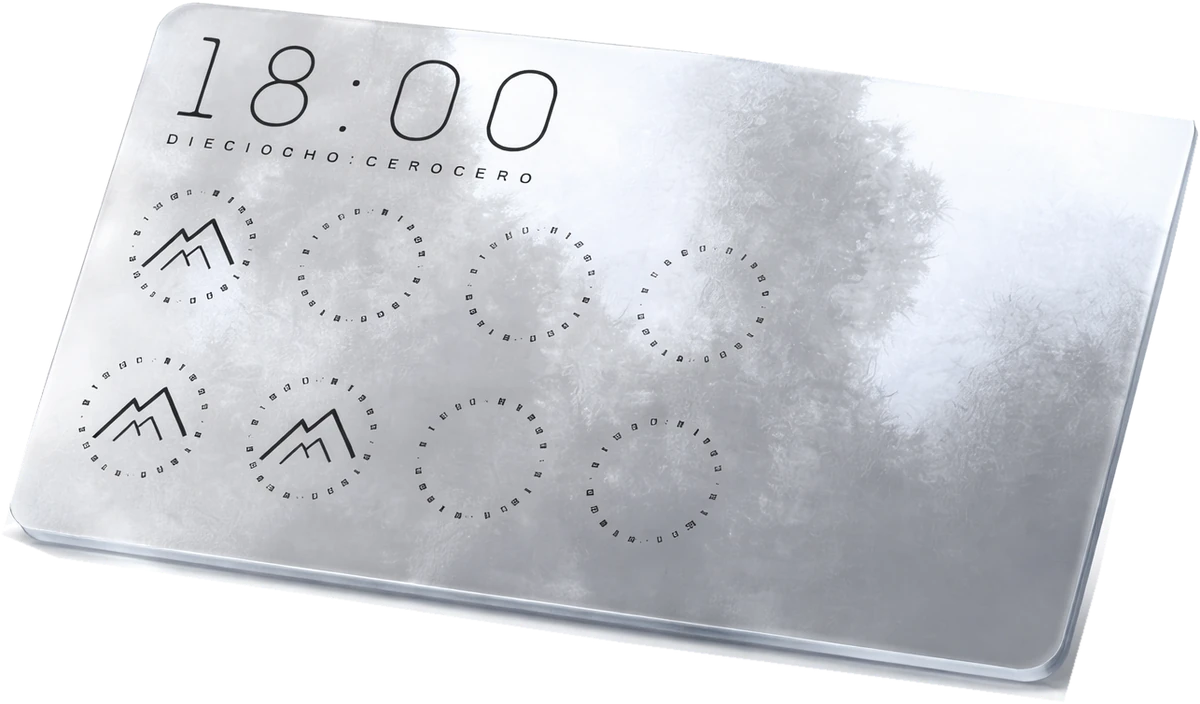
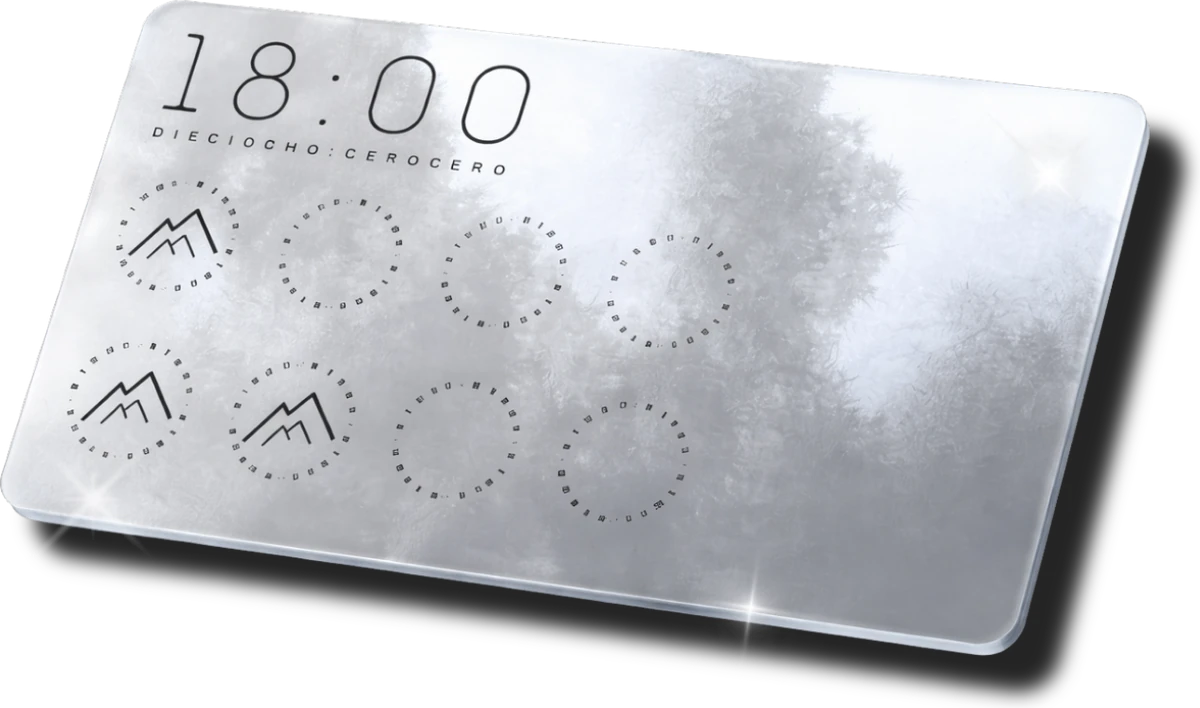
La tarjeta del Club flota y tiene brillo metalizado
El cliente aporto la tarjeta ya con alfa, asi que el recorte manual del render
anterior sobra. Se retira su script (tools/recortar-tarjeta.py) en vez de
dejarlo ahi: mantener codigo que ya nadie ejecuta es peor que no tenerlo, y el
episodio queda en el historial. Lo sustituye tools/optimizar-tarjeta.py, que
solo recorta a la caja de alfa, mismo criterio que los mockups de producto.
1358x1653 -> 1266x747 de contenido -> 1200x708, 85 KB.

Flotacion y brillo, pedidos por el cliente. Es una excepcion al lenguaje quieto
del Club y queda anotada como tal en AGENTS.md: la excepcion es el objeto, no la
seccion, y alrededor todo sigue entrando con su fade largo.

- Ciclo de 9 s, mas lento que cualquier pieza del hero (6,5-8,5 s), y con menos
  recorrido: 16,7 px medidos. Un objeto de este peso visual al ritmo de una
  bolsa de cafe se lee nervioso.
- Doble sombra: una corta y densa que lo despega del negro, otra larga y difusa
  que hace de contacto. Con una sola, o flota sin peso o se pega.
- El barrido de luz va enmascarado con la propia tarjeta (mask-image con el
  mismo WebP). Sin mascara la banda seria un rectangulo y se saldria por las
  esquinas redondeadas y el canto biselado.
- La banda ocupa el 12% del degradado, ~34% del ancho. El primer intento la
  puso al 30% (84% del ancho) y no se leia como destello: subia el brillo de
  toda la superficie a la vez y lavaba la impresion.

Con reduce, la flotacion baja a 8 px en 14 s y el brillo a 0,45 de opacidad en
[…]

diff --git a/src/app/globals.css b/src/app/globals.css
@@ -610,6 +610,88 @@ body {
   will-change: transform;
 }
 
+/* ---------- Tarjeta del Club 1800 ----------
+   Recibe el mismo trato que los mockups del hero: flota y tiene sombra propia.
+   Es una excepción pedida por el cliente al criterio de AGENTS.md, que reserva
+   al Club un lenguaje sin movimiento — la excepción es la tarjeta, no la
+   sección: el texto y el botón siguen entrando con su fade largo y quieto.
+
+   El ciclo es de 9 s, más lento que cualquier mockup del hero (6,5–8,5 s), y
+   el recorrido menor. Un objeto de este peso visual moviéndose al ritmo de una
+   bolsa de café se leería nervioso. */
+.tarjeta-club {
+  --amp: -16px;
+  --dur: 9s;
+  position: relative;
+  animation: tarjeta-flotar var(--dur) ease-in-out infinite;
+  will-change: transform;
+}
+.tarjeta-club img {
+  display: block;
+  width: 100%;
+  height: auto;
+  /* Doble sombra: una corta y densa que la despega del negro, y otra larga y
+     difusa que hace de contacto. Con una sola, o flota sin peso o se pega. */
+  filter:
+    drop-shadow(0 14px 18px rgba(0, 0, 0, 0.85))
+    drop-shadow(0 34px 55px rgba(0, 0, 0, 0.6));
+}
+
+/* Barrido de luz metalizada. Va enmascarado con la propia tarjeta: sin la
+   máscara, la banda de luz sería un rectángulo y se saldría por las esquinas
+   redondeadas y por el canto biselado. `screen` sobre el plateado levanta el
+   brillo sin lavar el gris de la impresión. */
+.tarjeta-club__brillo {
+  position: absolute;
+  inset: 0;
+  pointer-events: none;
+  mix-blend-mode: screen;
+  opacity: var(--brillo-op, 1);
+  /* La banda ocupa el 12% del degradado, que a 280% de tamaño son ~34% del
+     ancho de la tarjeta. Con la banda ancha (30% / 84% del ancho) no se leía
+     como destello: subía el brillo de toda la superficie a la vez y lavaba la
+     impresión. Un reflejo especular es estrecho y va y viene. Cinco paradas y
+     no tres, para que el modo `screen` no delate el quiebre de pendiente. */
+  background: linear-gradient(
+    104deg,
+    transparent 42%,
+    rgba(255, 255, 255, 0.08) 47%,
+    rgba(255, 255, 255, 0.3) 50%,
+    rgba(255, 255, 255, 0.08) 53%,
+    transparent 58%
+  );
+  background-size: 280% 100%;
+  -webkit-mask-image: url("/images/club/tarjeta-1800.webp");
+  mask-image: url("/images/club/tarjeta-1800.webp");
+  -webkit-mask-size: 100% 100%;
+  mask-size: 100% 100%;
+  -webkit-mask-repeat: no-repeat;
+  mask-repeat: no-repeat;
+  animation: tarjeta-brillo 8s ease-in-out infinite;
+}
+
+@keyframes tarjeta-flotar {
+  0%,
+  100% {
+    translate: 0 0;
+  }
+  50% {
+    translate: 0 calc(var(--amp) * var(--amp-scale, 1));
+  }
+}
+
+/* El destello cruza una vez y descansa: de 0 a 45% barre, y el resto del ciclo
+   se queda fuera de cuadro. Un brillo que va y viene sin parar parece un GIF. */
+@keyframes tarjeta-brillo {
+  0% {
+    background-position: 150% 0;
+  }
+  45%,
+  100% {
+    background-position: -60% 0;
+  }
+}
+
 /* ---------- Reduced-motion: solo lo intrusivo ----------
    Se apaga el parallax con scrub; se conserva todo lo demás con el
    recorrido reducido. Ver el porqué en handoff.md del proyecto original
@@ -628,6 +710,17 @@ body {
   .decor__abeja-aleteo {
     --amp-scale: 0.5;
     animation-duration: 1.8s;
+  }
+  /* La tarjeta conserva su flotación a media amplitud. El barrido de luz sí se
+     alarga mucho y se atenúa: un destello que cruza es lo más parecido a un
+     parpadeo que hay en la página, y ahí `reduce` sí tiene razón. */
+  .tarjeta-club {
+    --amp-scale: 0.5;
+    animation-duration: 14s;
+  }
+  .tarjeta-club__brillo {
+    --brillo-op: 0.45;
+    animation-duration: 20s;
   }
   .js-anim .ciclo::before {
     transform: scaleX(1);

diff --git a/src/components/sections/Club.tsx b/src/components/sections/Club.tsx
@@ -25,20 +25,22 @@ export default function Club() {
             {club.cta}
           </Button>
         </div>
-        {/* La tarjeta va recortada sobre el fondo, no dentro de un recuadro con
-            borde: es un objeto, no una fotografía enmarcada. Sin animación de
-            flotación a propósito — el Club tiene lenguaje propio, fade largo y
-            sin desplazamiento, y no recibe el tratamiento del resto de la
-            página. La sombra la separa del negro sin necesidad de moverla. */}
-        <figure data-reveal-club className="relative">
+        {/* La tarjeta va suelta sobre el fondo, no dentro de un recuadro con
+            borde: es un objeto, no una fotografía enmarcada. Flota y tiene
+            brillo metalizado, como los mockups del hero — excepción pedida por
+            el cliente al lenguaje quieto del Club; ver globals.css.
+            El brillo es un hermano, no un hijo del <img>: un elemento dentro
+            de la imagen no existe, y como hermano puede mezclarse en `screen`
+            usando la propia tarjeta como máscara. */}
+        <figure data-reveal-club className="tarjeta-club">
           <Image
             src={club.image}
             alt={club.imageAlt}
             width={1200}
-            height={704}
+            height={708}
             sizes="(min-width: 980px) 45vw, 92vw"
-            className="h-auto w-full drop-shadow-[0_28px_45px_rgba(0,0,0,0.85)]"
           />
+          <span className="tarjeta-club__brillo" aria-hidden="true" />
         </figure>
       </Wrap>
     </section>

diff --git a/tools/optimizar-tarjeta.py b/tools/optimizar-tarjeta.py
@@ -1,0 +1,47 @@
+"""Recorta a la caja de alfa y optimiza la tarjeta del Club 1800.
+
+    python tools/optimizar-tarjeta.py <origen.png> public/images/club/tarjeta-1800.webp
+
+Mismo criterio que los mockups de producto: se recorta al contenido real para
+que el ancho en CSS sea el ancho visible de la tarjeta. El PNG que entrega el
+cliente trae ~68% de lienzo transparente alrededor; sin recortar, colocarla y
+darle una sombra seria adivinar donde esta de verdad el objeto.
+
+Sustituye al antiguo recorte por inundacion + poligono: aquel hacia falta
+cuando el render venia sobre fondo blanco con el reflejo del suelo pegado al
+canto. El archivo actual ya llega con alfa limpia y no necesita nada de eso.
+"""
+import os
+import sys
+from PIL import Image
+
+ANCHO_SALIDA = 1200
+
+
+def optimizar(src, dst):
+    im = Image.open(src).convert("RGBA")
+    original = im.size
+
+    caja = im.getchannel("A").point(lambda p: 255 if p > 8 else 0).getbbox()
+    im = im.crop(caja)
+    recorte = im.size
+
+    alto = round(ANCHO_SALIDA * recorte[1] / recorte[0])
+    im = im.resize((ANCHO_SALIDA, alto), Image.LANCZOS)
+
+    os.makedirs(os.path.dirname(dst), exist_ok=True)
+    im.save(dst, "WEBP", quality=90, method=6, alpha_quality=100)
+
+    # La mascara del brillo usa este mismo archivo: si el contenido no llenara
+    # la caja, el barrido de luz no cuadraria con la tarjeta.
+    b = Image.open(dst).convert("RGBA").getchannel("A").point(lambda q: 255 if q > 8 else 0).getbbox()
+    llena = b == (0, 0, ANCHO_SALIDA, alto)
+    return original, recorte, (ANCHO_SALIDA, alto), os.path.getsize(dst) / 1024, llena
+
+
+if __name__ == "__main__":
+    if len(sys.argv) != 3:
+        sys.exit(__doc__)
+    orig, rec, sal, kb, llena = optimizar(sys.argv[1], sys.argv[2])
+    print(f"{orig[0]}x{orig[1]}  ->  recorte {rec[0]}x{rec[1]}  ->  {sal[0]}x{sal[1]}  {kb:.0f} KB")
+    print(f"contenido llena la caja: {'si' if llena else 'NO'}")

diff --git a/handoff.md b/handoff.md
@@ -121,49 +121,59 @@ las piezas del hero. No es stock: es el producto real de la marca.
 
 **Las otras dos no lo tenían**, así que se diseñó el hueco en vez de taparlo.
 `MediaFrame` compone un panel con la marca de montaña al 10% de opacidad, que se
-lee como «foto por venir». Respeta la regla de contraste del brandbook — variante
-oscura sobre fondo claro en Origen, clara sobre oscuro en Club — y la prop
-`vacio="club"` mantiene esa sección dentro de su paleta propia, que no se mezcla
-con la principal.
+lee como «foto por venir», con la variante oscura del logo sobre fondo claro que
+exige el brandbook. La del Club dejó de hacer falta poco después, al aportar el
+cliente la tarjeta real (§2.7).
 
-El fallback por `onError` se conserva: en cuanto los archivos reales aparezcan en
+El fallback por `onError` se conserva: en cuanto el archivo real aparezca en
 `public/images/pending/`, la foto tapa el panel sin tocar una línea de código.
 
-Medido en 390/768/1280/1440/1920: **10/10** imágenes de producto cargadas, 2
-paneles de hueco, **0 imágenes rotas visibles** (antes 5) y sin desborde.
+Medido en 390/768/1280/1440/1920: **10/10** imágenes de producto cargadas,
+**0 imágenes rotas visibles** (antes 5) y sin desborde. Queda un solo hueco, el
+de `finca-familia.jpg`.
 
-### 2.7 La tarjeta del Club, recortada de su render
+### 2.7 La tarjeta del Club: flotación y brillo metalizado
 
-El cliente aportó un render de la tarjeta de fidelización y, aparte, un `.obj`
-con su modelo 3D. **El modelo no hizo falta**: se comprobó que llega sin
-texturas (`map=no` en los tres materiales), es decir, una tarjeta en blanco. El
-render, en cambio, ya trae el arte. Los dos quedan en `assets-fuente/` por si
-algún día se quiere otro ángulo — el modelo sí tiene las UV desplegadas de 0 a 1,
-así que aceptaría una textura sin tocar geometría.
+El cliente aportó primero un render sobre fondo blanco y un `.obj` con el modelo
+3D; después, un PNG ya con alfa. **Solo hace falta el último.**
 
-Recortar el render tuvo su trabajo, y por eso hay un script con las medidas
-dentro: `tools/recortar-tarjeta.py`. Dos problemas encadenados:
+**El `.obj` nunca sirvió para esto:** llega sin texturas (`map=no` en los tres
+materiales), o sea una tarjeta en blanco. Se conserva en `assets-fuente/` porque
+tiene las UV desplegadas de 0 a 1 y aceptaría una textura sin tocar geometría,
+por si algún día se quiere otro ángulo o una animación 3D.
 
-- **El interior de la tarjeta es casi blanco**, igual que el fondo. Borrar por
-  color se la lleva entera. Se rellena por inundación desde las esquinas, que
-  solo alcanza el blanco conectado con el exterior.
-- **El reflejo del suelo va soldado al canto inferior.** Comparten borde y
-  ningún umbral los separa; subir la tolerancia empezaba a comerse el filo antes
-  de limpiar el reflejo. Hace falta cortar por geometría, con un polígono.
+**El recorte manual del primer render se retiró.** Costó lo suyo —el interior de
+la tarjeta es casi blanco como el fondo, y el reflejo del suelo iba soldado al
+canto inferior, así que hubo que combinar inundación desde las esquinas con un
+polígono de coordenadas medidas— y quedó obsoleto en cuanto llegó el archivo con
+alfa. Su script se borró: mantener código que ya nadie ejecuta es peor que no
+tenerlo. `tools/optimizar-tarjeta.py` hace ahora lo único que hace falta,
+recortar a la caja de alfa, con el mismo criterio que los mockups de producto.
+Si alguna vez vuelve a llegar un render sobre fondo blanco, el episodio está en
+el historial de git.
 
-Las coordenadas del polígono están **medidas, no estimadas**: el filo derecho
-baja de (1418,270) a (1309,740) y el inferior sube de (200,722) a (800,811); el
-cruce de ambas rectas da el vértice inferior derecho en (1273,879) — unos 40 px
-más abajo de lo que parecía a ojo, que era justo por donde se colaba el reflejo.
+**Flotación y brillo.** Petición explícita del cliente, y una excepción al
+lenguaje quieto del Club que queda anotada en `AGENTS.md`. La excepción es el
+objeto, no la sección: el texto y el botón siguen entrando con su fade largo.
 
-En `Club.tsx` la tarjeta va suelta sobre el fondo, sin marco ni borde: es un
-objeto, no una fotografía enmarcada. **Sin animación de flotación a propósito** —
-el Club tiene lenguaje propio (fade largo, sin desplazamiento) y `AGENTS.md`
-prohíbe darle el tratamiento del resto de la página. La separa del negro una
-sombra, no el movimiento.
+- **Ciclo de 9 s**, más lento que cualquier pieza del hero (6,5–8,5 s), y con
+  menos recorrido: 16,7 px medidos. Un objeto de este peso visual moviéndose al
+  ritmo de una bolsa de café se lee nervioso.
+- **Doble sombra**: una corta y densa que lo despega del negro, otra larga y
+  difusa que hace de contacto. Con una sola, o flota sin peso o se pega al fondo.
+- **El barrido de luz va enmascarado con la propia tarjeta** (`mask-image` con el
+  mismo WebP). Sin la máscara la banda sería un rectángulo y se saldría por las
+  esquinas redondeadas y el canto biselado.
+- La banda ocupa el **12% del degradado**, que a `background-size: 280%` son unos
+  34% del ancho. El primer intento la puso al 30% (84% del ancho) y no se leía
+  como destello: subía el brillo de toda la superficie a la vez y lavaba la
+  impresión. Un reflejo especular es estrecho.
+- Con `reduce`, la flotación baja a 8 px en 14 s y el brillo a 0,45 de opacidad
+  en 20 s. El destello es lo más parecido a un parpadeo que hay en la página, así
+  que ahí `reduce` sí tiene razón — pero no se apaga, se atenúa.
 
 Al dejar de usarse el hueco del Club, la variante `vacio="club"` de `MediaFrame`
-quedó sin uso y se eliminó en el mismo commit.
+quedó sin uso y se eliminó.
 
 ---
 

diff --git a/AGENTS.md b/AGENTS.md
@@ -62,9 +62,15 @@ sobre piedra cálida `--tierra` da 5.02:1 por sí solo.
 > Ya causó un bug real en esta migración (`handoff.md` §3.1) — si alguna
 > sección cambia a este fondo, es lo primero que hay que revisar.
 
-**Sub-marca Club 1800** (si el proyecto llega a tocarla): paleta propia
-negro/plateado/glow — nunca se mezcla con la paleta principal ni recibe el
-mismo tratamiento de animación.
+**Sub-marca Club 1800:** paleta propia negro/plateado/glow — nunca se mezcla
+con la paleta principal. Su lenguaje de animación también es propio: el texto y
+el botón entran con un fade largo, sin desplazamiento ni cascada.
+
+> **Excepción, decidida por el cliente el 3 de agosto de 2026:** la tarjeta de
+> membresía **sí** flota y **sí** lleva brillo metalizado, como los mockups del
+> hero. La excepción es el objeto, no la sección: alrededor, todo sigue quieto.
+> Se le dio un ciclo más lento que a cualquier pieza del hero (9 s frente a
+> 6,5–8,5 s) para que no compita con ellas ni se lea nerviosa.
 
 **Tipografía y roles:** Britanny Signature (portada/hero únicamente), Intro
 Rust Line (titulares secundarios), Suranna itálica (taglines/eyebrows/citas
